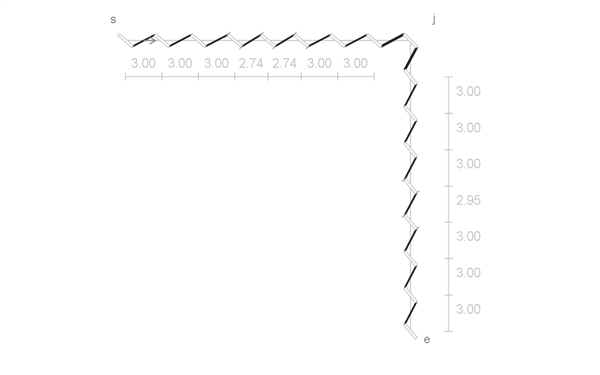
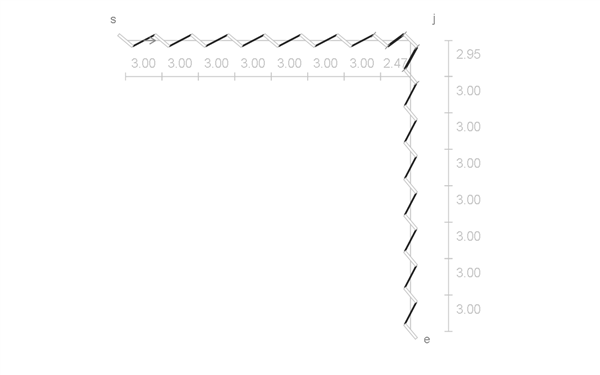
Keep diagonal corner arm spacing nominal until vertex

diff --git a/docs/PITCH_skeleton.md b/docs/PITCH_skeleton.md
@@ -83,22 +83,24 @@ Stop both rows short and connect their last slits. This avoids a separate corner
 
 ![A shared diagonal slit joins the top row to a row with mirrored lean](../examples/illustrated/assets/problem-corner-mirrored.gif)
 
-Use one diagonal slit at the vertex and mirror the lean on one arm. The opening stays at the intended point, with three adjusted gaps across the arms; its orientation changes the direction and visible length of the two adjoining threads. A good treatment when that appearance suits the design, with separate placement of the corner slit and a relaxed consistent-lean rule.
+Use one diagonal slit at the vertex and mirror the lean on one arm. Keep each arm at nominal pitch; absorb its residual only in the final gap into the shared slit. The opening stays at the intended point; its orientation changes the direction and visible length of the two adjoining threads. A good treatment when that appearance suits the design, with separate placement of the corner slit and a relaxed consistent-lean rule.
 
 ## Shared tip hole (Autostitch)
 
 ![Autostitch aligns virtual slit tips and fits the remaining arm spans](../examples/illustrated/assets/problem-corner-autostitch.gif)
 
-Meet the selected virtual slit tips at one round hole, retain nominal corner steps and fit the free spans. This keeps consistent lean and an explicit construction, but moves the hole away from the vertex. Here it needs the same three adjusted gaps as the diagonal-slit treatment.
+Meet the selected virtual slit tips at one round hole, retain nominal corner steps and fit the free spans. This keeps consistent lean and bounded adjustments, but moves the hole away from the vertex. Here it spreads the same absolute adjustment across three gaps; the diagonal-slit treatment concentrates it in two corner gaps.
 
 | Treatment | Number of adjusted gaps | Absolute adjustment ($\mathrm{mm}$) | Absolute residual ($\mathrm{mm}$) | Absolute stitch-length deviation ($\mathrm{mm}$) |
 | --- | ---: | ---: | ---: | ---: |
 | Vertex hole | $3$ | $0.575$ | $0.575$ | $1.273$ |
 | Thread bridge | $4$ | $1.817$ | $1.817$ | $1.912$ |
-| Shared diagonal slit with mirrored lean | $3$ | $0.575$ | $0.575$ | $0.625$ |
+| Shared diagonal slit with mirrored lean | $2$ | $0.575$ | $0.575$ | $0.407$ |
 | Shared tip hole (Autostitch) | $3$ | $0.575$ | $0.575$ | $0.516$ |
 
 The bridge's off-pitch gap is counted for comparison even though it exceeds the adjustment bound. Its totals use the direct bridge, which bypasses the vertex. Autostitch uses virtual-to-real corner steps for pitch accounting; visible thread-length deviation includes the actual connections to the round hole.
+
+The diagonal-slit treatment's final gaps are $2.472\,\mathrm{mm}$ and $2.954\,\mathrm{mm}$. The first is below Autostitch's $2.7\,\mathrm{mm}$ minimum for this pitch.
 
 # Why CAD
 

diff --git a/examples/illustrated/README.md b/examples/illustrated/README.md
@@ -40,7 +40,7 @@ Each solution starts at the problem's completed residual state and proceeds dire
 
 The common arm lengths are $L_i=np-c_i/2$, with $n=8$ and $c_i$ the signed shift from the guide vertex to the A6 virtual centre along each arm's incoming direction. This gives approximately $23.471688\,\mathrm{mm}$ and $23.953779\,\mathrm{mm}$. Vertex and A6 fits have equal and opposite residuals; both use the same minimum-adjustment selector and reserve a nominal step next to their corner opening or virtual slit. The controlled balance is a fixture choice, not a general result for arbitrary endpoints.
 
-The mirrored treatment reuses `diagonalCornerScene` with the Sellier construction parameters from `ILL-SELLIER-CORNER`, extended to the common arm length. The top row starts punched; the vertical row mirrors in place before the shared diagonal slit appears.
+The mirrored treatment reuses `diagonalCornerScene` with the Sellier construction parameters from `ILL-SELLIER-CORNER`, extended to the common arm lengths. Its rows stay nominal from the outer endpoints; only the final gaps into the vertex slit absorb the residuals. These are approximately $2.472\,\mathrm{mm}$ and $2.954\,\mathrm{mm}$; the first is below the Autostitch gap bound. Total absolute adjustment matches A6, but the adjusted-gap count does not. The top row starts punched; the vertical row mirrors in place before the shared diagonal slit appears.
 
 The Autostitch solution starts at the completed crossing state. Move the terminal virtuals and their nominally spaced real neighbours until the selected tips meet (A6), then fit the free spans while keeping the outer endpoints, neighbours and hole fixed. Gap values update; provisional gaps outside the bounds are red. The final incoming arm has two $3.264\,\mathrm{mm}$ adjusted gaps; the outgoing arm has one $3.046\,\mathrm{mm}$ adjusted gap. `I` marks identify them. Reveal the thread together and hold for four seconds.
 
